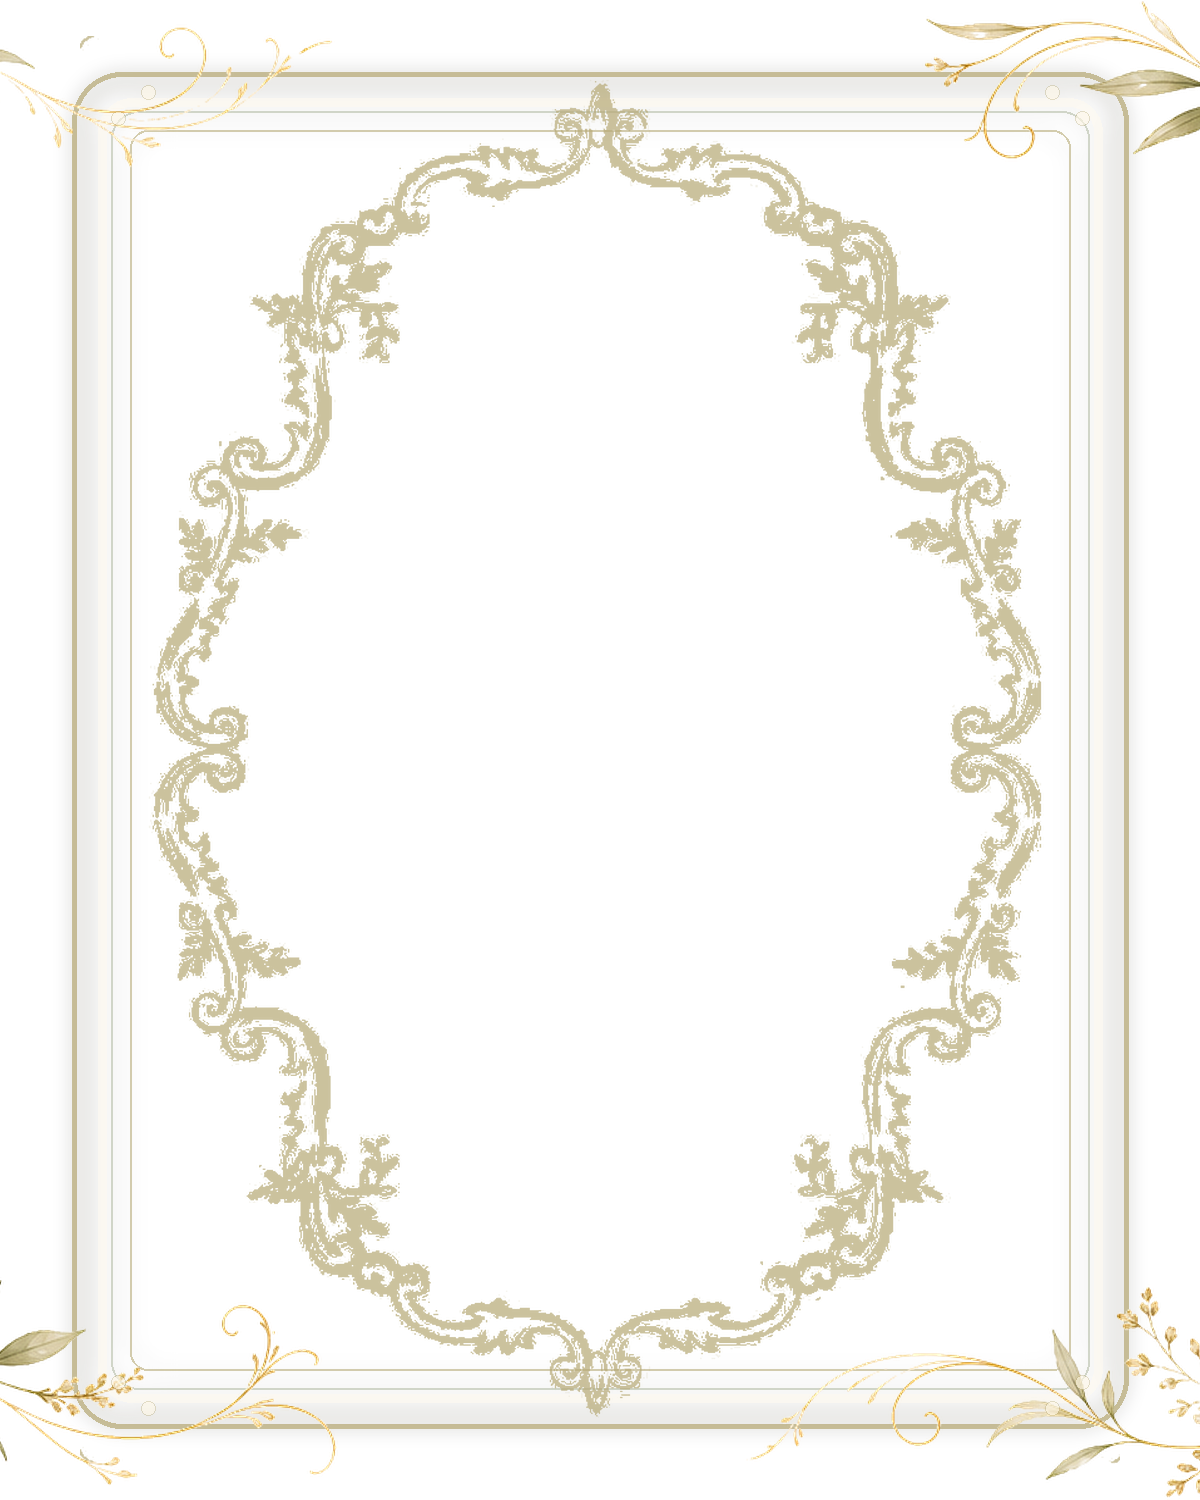
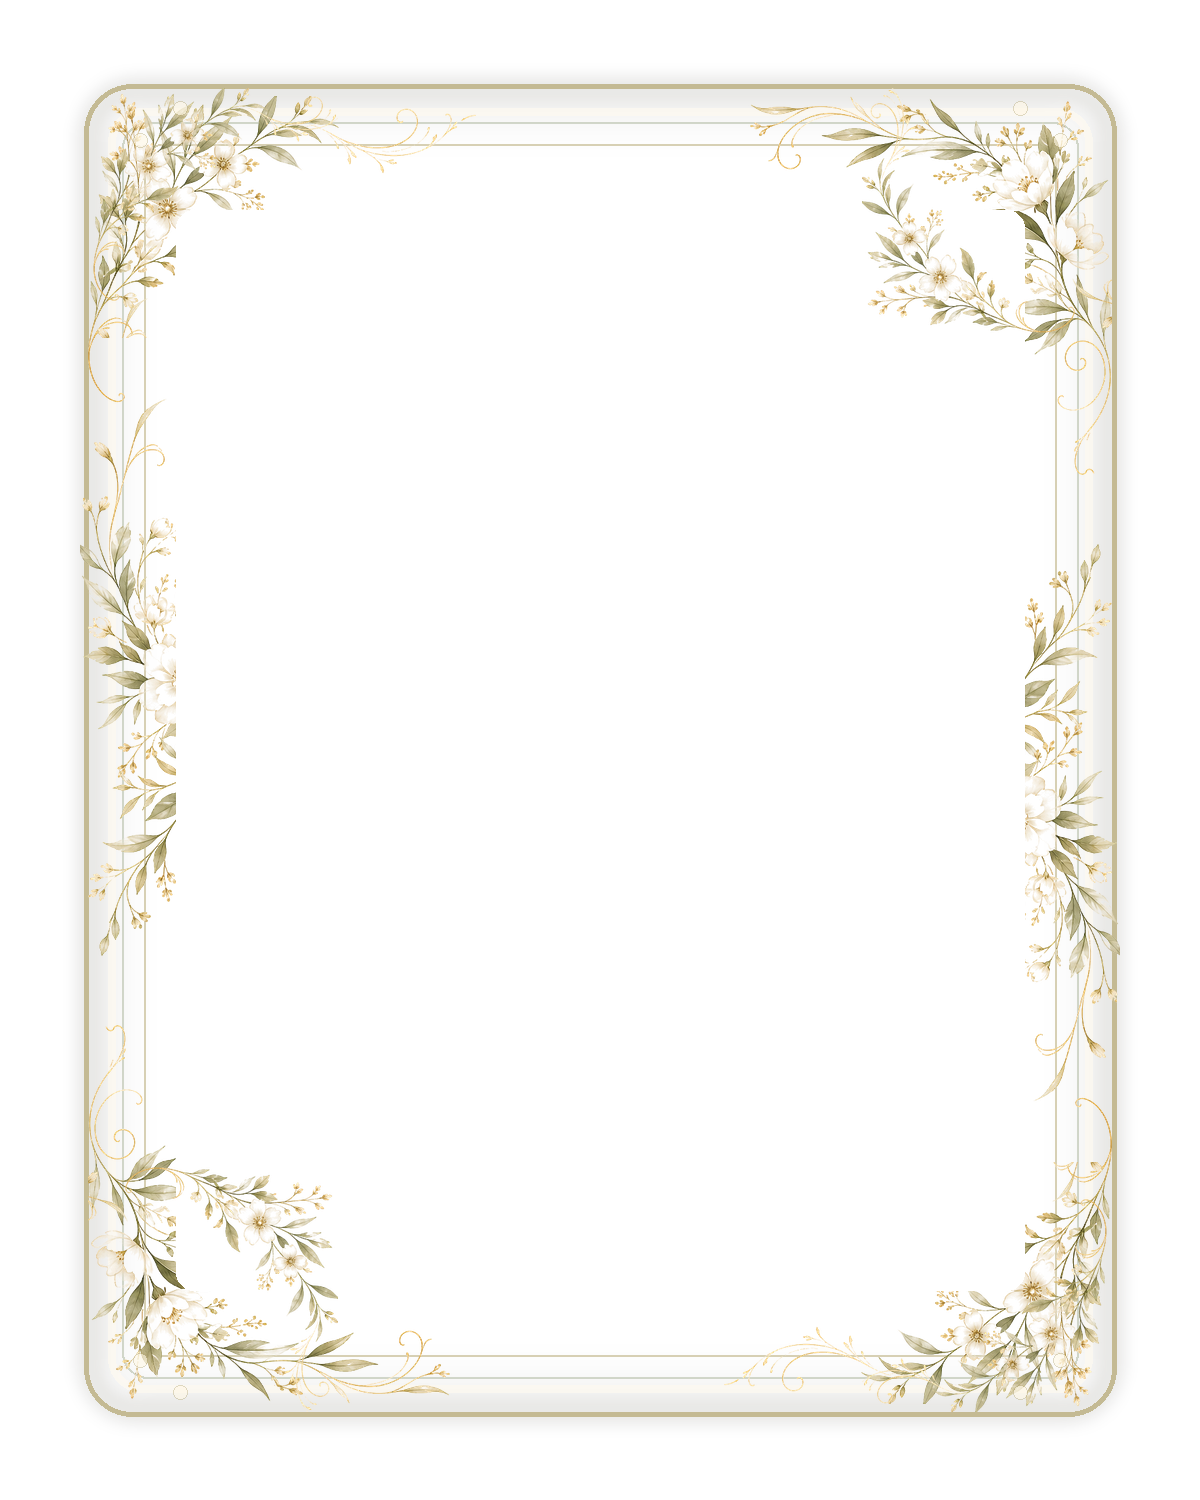
Refine frame and RSVP options

Changed region(s): [[0.0, 0.0, 1.0, 1.0], [0.0, 0.0307, 0.0308, 0.0613]]

diff --git a/src/main/resources/templates/index.html b/src/main/resources/templates/index.html
@@ -4,8 +4,8 @@
     <meta charset="UTF-8">
     <meta name="viewport" content="width=device-width, initial-scale=1.0">
     <title>Запрошення на весілля</title>
-    <link rel="stylesheet" href="/css/style.css?v=20260625-11">
-    <script src="/js/invitation.js?v=20260625-11" defer></script>
+    <link rel="stylesheet" href="/css/style.css?v=20260626-1">
+    <script src="/js/invitation.js?v=20260626-1" defer></script>
 </head>
 <body>
 <main class="invitation">
@@ -130,10 +130,8 @@
                 <legend>Що обираєте з напоїв?</legend>
                 <label><input type="checkbox" name="drinks" value="Коктейлі"> Коктейлі</label>
                 <label><input type="checkbox" name="drinks" value="Безалкогольні напої"> Безалкогольні напої</label>
-                <label><input type="checkbox" name="drinks" value="Пиво"> Пиво</label>
                 <label><input type="checkbox" name="drinks" value="Вино"> Вино</label>
                 <label><input type="checkbox" name="drinks" value="Ігристе"> Ігристе</label>
-                <label><input type="checkbox" name="drinks" value="Текіла"> Текіла</label>
                 <label><input type="checkbox" name="drinks" value="Ром"> Ром</label>
                 <label><input type="checkbox" name="drinks" value="Коньяк"> Коньяк</label>
             </fieldset>

diff --git a/src/main/resources/static/css/style.css b/src/main/resources/static/css/style.css
@@ -351,7 +351,7 @@ textarea {
 .photo-frame::before {
     inset: -10px;
     z-index: 0;
-    background: url("/images/photo-frame-luxury.png?v=20260625-11") center / 100% 100% no-repeat;
+    background: url("/images/photo-frame-luxury.png?v=20260626-1") center / 100% 100% no-repeat;
     opacity: 1;
     filter: drop-shadow(0 0 12px rgba(183, 170, 119, 0.28));
 }
@@ -607,8 +607,9 @@ h1 {
     display: block;
     object-fit: contain;
     border: 0;
-    border-radius: 0;
+    border-radius: 22px;
     background: transparent;
+    box-shadow: 0 18px 42px rgba(47, 59, 43, 0.08);
 }
 
 .dress-text {